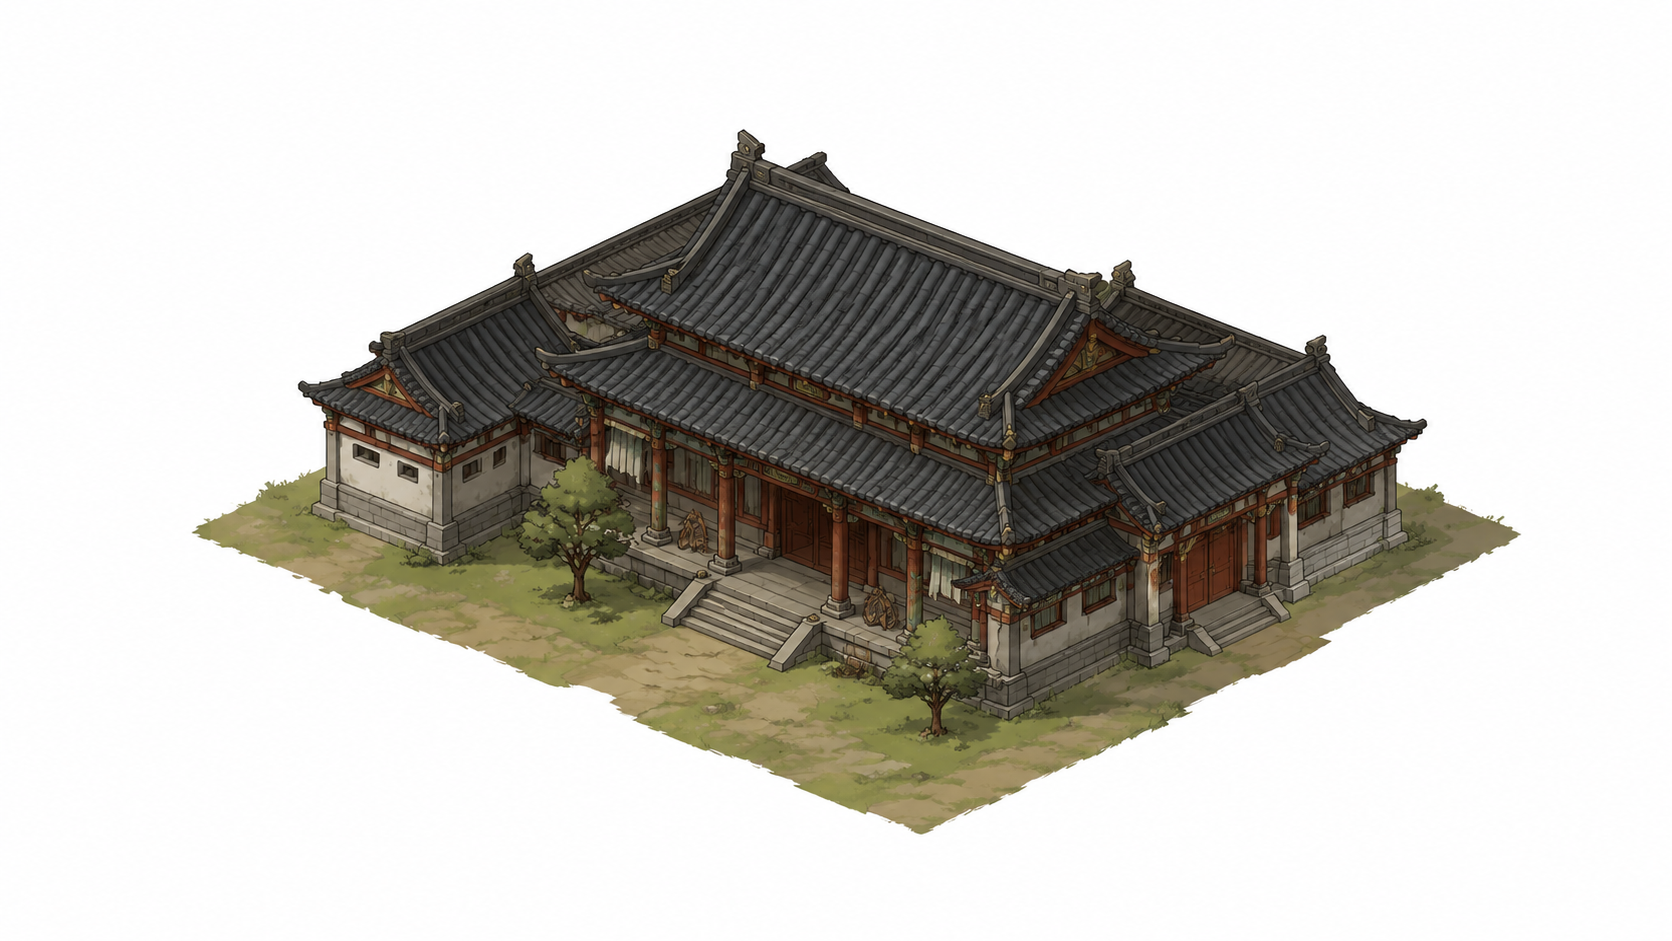
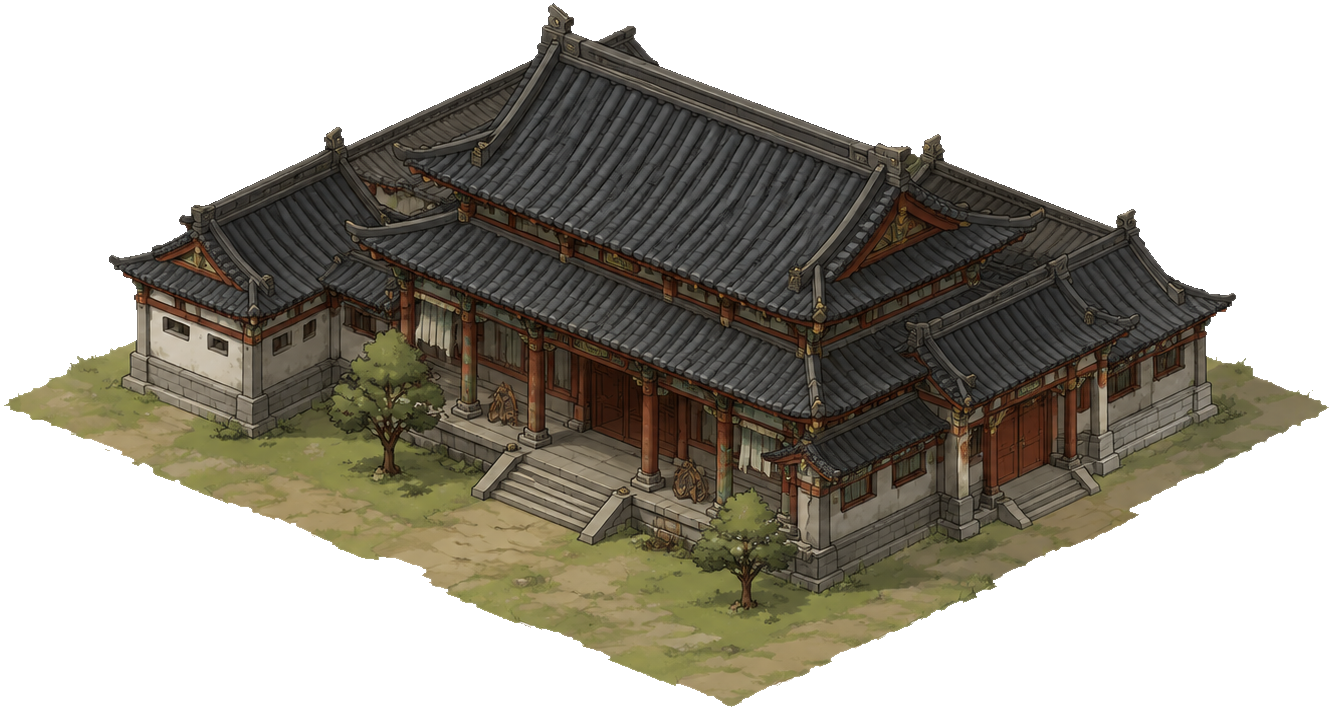
chore: carry city UI working tree updates

diff --git a/src/ui/views/city/city-view.ts b/src/ui/views/city/city-view.ts
@@ -12,7 +12,8 @@ import type {
 import type { CitySceneMapping } from "../../../domain/city-scene-mapping";
 import type { HouseDefinition } from "../../../domain/house";
 import haozhouCityBackgroundUrl from "../../../../ui/background/upload_1784207698799091496 (1).png?url";
-import cityDiamondMapTextureUrl from "../../../../ui/yuansu/菱形格子/20260716-111958.png?url";
+import cityDiamondBaseTextureUrl from "../../../../ui/yuansu/菱形格子/20260716-111958.png?url";
+import cityDiamondForegroundWallUrl from "../../../../ui/yuansu/菱形格子/20260716-141239.png?url";
 
 type IsoTileType = "stone" | "road" | "grass" | "water" | "courtyard";
 
@@ -286,19 +287,18 @@ function renderCityMapScene(cityDefinition: CityDefinition): string {
   return `
     <div class="c-city-map-scene" aria-label="${cityDefinition.name}等距城镇地图">
       <div class="c-city-map-scene__ambient" aria-hidden="true"></div>
-      <div class="c-city-isometric-map" aria-label="${cityDefinition.name}等距城镇地图">
-        <div
-          class="c-city-isometric-map__grid"
-          style="--iso-map-width:${CITY_ISO_MAP_SIZE * CITY_ISO_TILE_WIDTH}px; --iso-map-height:${CITY_ISO_MAP_SIZE * CITY_ISO_TILE_HEIGHT}px;"
-        >
-          ${renderCityIsometricMap()}
-          <img
-            class="c-city-isometric-map__texture"
-            src="${cityDiamondMapTextureUrl}"
-            alt=""
-            aria-hidden="true"
-          />
-        </div>
+      <div class="c-city-map-stage" aria-hidden="true">
+        <img
+          class="c-city-map-stage__base"
+          src="${cityDiamondBaseTextureUrl}"
+          alt=""
+        />
+        <div class="c-city-map-stage__buildings"></div>
+        <img
+          class="c-city-map-stage__foreground-wall"
+          src="${cityDiamondForegroundWallUrl}"
+          alt=""
+        />
       </div>
     </div>
   `;

diff --git a/src/styles/prototype.css b/src/styles/prototype.css
@@ -1843,8 +1843,7 @@
   position: absolute;
   inset: auto 0 0;
   height: 38%;
-  background:
-    linear-gradient(180deg, rgb(80 54 33 / 0%), rgb(72 50 29 / 52%) 26%, rgb(58 40 24 / 86%) 100%);
+  background: transparent;
   pointer-events: none;
 }
 
@@ -1927,6 +1926,51 @@
   z-index: 2;
   overflow: visible;
   pointer-events: none;
+}
+
+.c-city-map-stage {
+  position: absolute;
+  top: 52%;
+  left: 54%;
+  width: min(1260px, 118%);
+  aspect-ratio: 2048 / 1152;
+  overflow: visible;
+  transform: translate(-50%, -50%);
+  transform-origin: center center;
+  pointer-events: none;
+}
+
+.c-city-map-stage__base,
+.c-city-map-stage__buildings,
+.c-city-map-stage__foreground-wall {
+  position: absolute;
+  pointer-events: none;
+}
+
+.c-city-map-stage__base {
+  top: 7.638889%;
+  left: 6.787109%;
+  z-index: 1;
+  display: block;
+  width: 86.474609%;
+  height: 84.722222%;
+  object-fit: fill;
+  user-select: none;
+}
+
+.c-city-map-stage__buildings {
+  inset: 0;
+  z-index: 2;
+}
+
+.c-city-map-stage__foreground-wall {
+  inset: 0;
+  z-index: 3;
+  display: block;
+  width: 100%;
+  height: 100%;
+  object-fit: fill;
+  user-select: none;
 }
 
 .c-city-map-scene__ambient {
